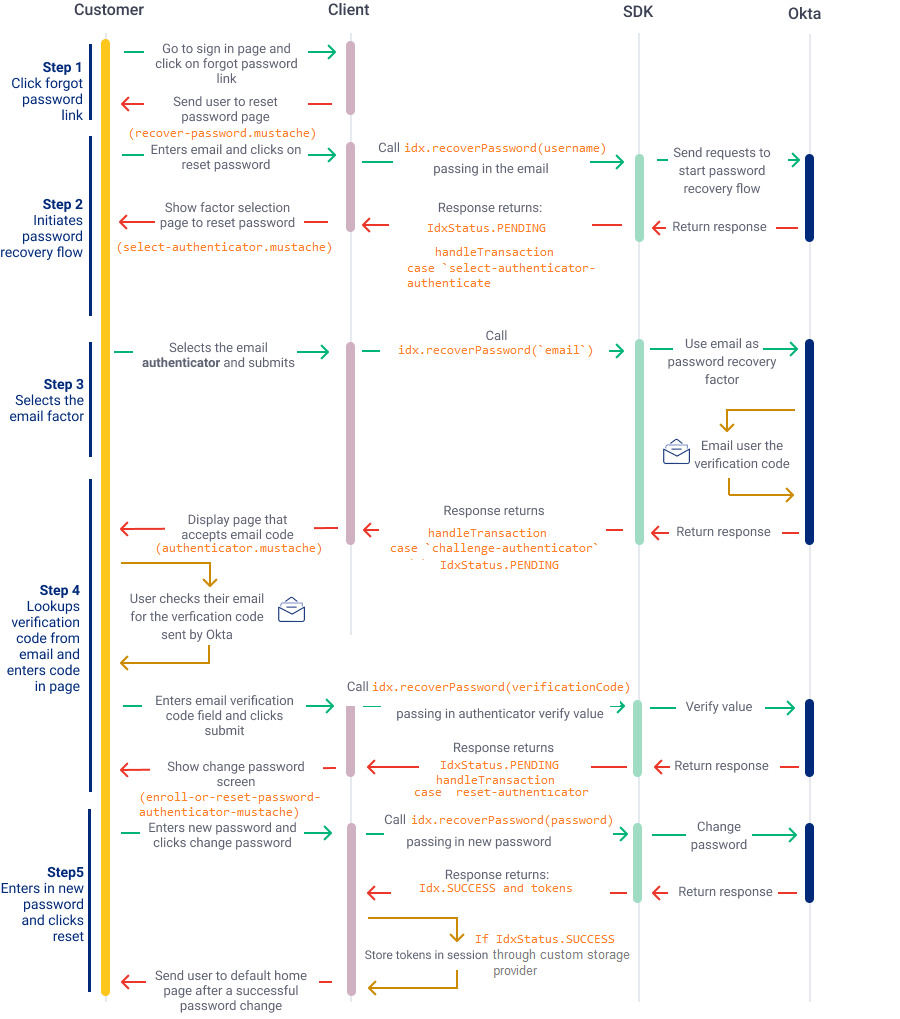
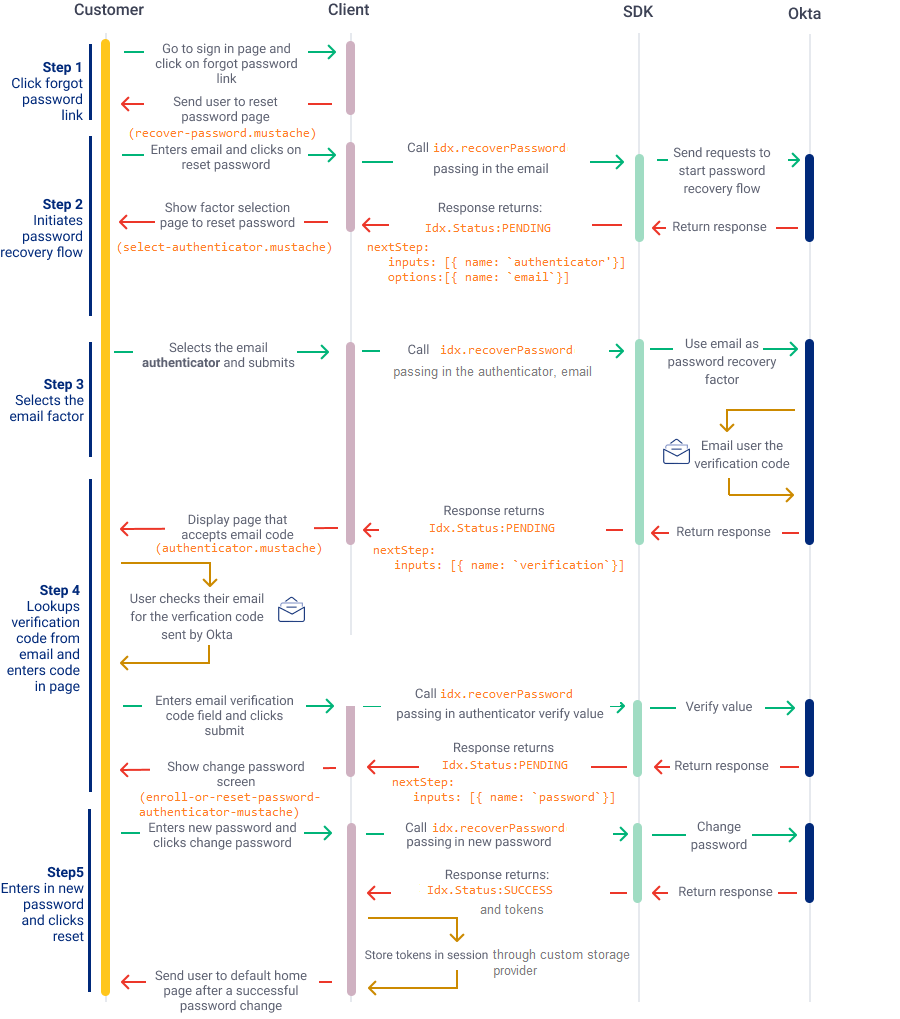
Updates to image and steps as per recent overall feedback

diff --git a/packages/@okta/vuepress-site/docs/guides/oie-embedded-sdk-use-cases/oie-embedded-sdk-use-case-pwd-recovery-mfa/nodejs/integrationsteps.md b/packages/@okta/vuepress-site/docs/guides/oie-embedded-sdk-use-cases/oie-embedded-sdk-use-case-pwd-recovery-mfa/nodejs/integrationsteps.md
@@ -22,9 +22,9 @@ Create a "Reset your password" page that initiates the reset password flow. The 
 
 </div>
 
-### Step 3: Make call to idx.recoverPassword(username)
+After the user clicks **Submit** to start the reset flow, the next step is to call `idx.recoverPassword` and pass in the email address captured from the **Username** field. This starts the password recovery flow and returns a status of `Idx.Status:PENDING` and a `nextStep` field with inputs for an authenticator.
 
-After the user clicks **Submit** to start the reset flow, the next step is to call the `idx.recoverPassword` method and pass in the email address captured from the **Username** field, as seen in the SDK sample application's `recover-password.js` file. The method returns a call to the `handleTransaction` function in the `handleTransactions.js` file, which verifies the case and authenticator and moves the process to the next step.
+The cal is shown in the SDK sample application's `recover-password.js` file.
 
 ```JavaScript
 router.post('/recover-password', async (req, res, next) => {
@@ -35,7 +35,7 @@ router.post('/recover-password', async (req, res, next) => {
 });
 ```
 
-The `handleTransaction` response directs the user to a select authenticators page (`/select-authenticator` in this example) that the user needs to use to select an authentication type. In this case, the email factor is configured.
+The `handleTransaction` response, in the `handleTransaction.js` page, directs the user to a select authenticators page (`/select-authenticator` in this example) that the user needs to use to select an authentication type. In this case, the email factor is configured.
 
 ```JavaScript
 // authenticator authenticate
@@ -48,12 +48,9 @@ The `handleTransaction` response directs the user to a select authenticators pag
 
 >**NOTE:** Review the full use of the `idx.recoverPassword` method in the [Okta Auth JS SDK](https://github.com/okta/okta-auth-js/blob/master/docs/idx.md#idxrecoverpassword). Other uses are documented in the following steps.
 
-### Step 4: Create reset password authenticators page
+### Step 3: Create reset password authenticators page
 
-The next step is to create a page that shows the authenticator that is returned from
-the `handleTransaction` method. For this use case, it shows the email authenticator.
-The page should include the name of the authenticator and the ability to select the
-authenticator to initiate the authentication verification process.
+The next step is to create a page that shows the authenticator that is returned from the `handleTransaction` method. For this use case, it shows the email authenticator. The page should include the name of the authenticator and the ability to select the authenticator to initiate the authentication verification process.
 
 <div class="common-image-format">
 
@@ -62,9 +59,7 @@ authenticator to initiate the authentication verification process.
 
 </div>
 
-### Step 5: Make call to idx.recoverPassword(email)
-
-After the user selects the email authenticator, the next step is to call the `idx.recoverPassword` method with the authenticator type `('email')`, as shown in the `authenticator.js` file of the SDK sample application. The method returns a status of `Idx.Status:PENDING`. This status indicates that the Okta platform has emailed the verification code to the user's email address and it's now awaiting verification. The process moves to the next step.
+After the user selects the email authenticator, the next step is to call `idx.recoverPassword` with the authenticator type, as shown in the `authenticator.js` file of the SDK sample application. The method returns a status of `Idx.Status:PENDING`. This status indicates that the Okta platform has emailed the verification code to the user's email address and it's now awaiting verification. The `nextStep` field, also returned, requires an input parameter of an email verification code.
 
 ```JavaScript
 router.post('/select-authenticator', async (req, res, next) => {
@@ -76,9 +71,9 @@ router.post('/select-authenticator', async (req, res, next) => {
 });
 ```
 
-### Step 6: Create code verification page
+### Step 4: Create code verification page
 
-After the call to `idx.recoverPassword(email)` has responded with a status of `Idx.Status:PENDING`, the user should be redirected to a code verification page.
+After the call to `idx.recoverPassword` has responded with a status of `Idx.Status:PENDING`, the user should be redirected to a code verification page.
 
 <div class="common-image-format">
 
@@ -89,9 +84,7 @@ After the call to `idx.recoverPassword(email)` has responded with a status of `I
 
 The page should display a field to enter a code and a button or link to send the code to Okta for the email verification.
 
-### Step 7: Make call to idx.recoverPassword(verificationCode)
-
-After the user checks their email for the code and enters the value into the field, they should click **Verify** to initiate the verification. Call `idx.recoverPassword` with the verification code passed in `(verificationCode)`, as shown in the `authenticator.js` page of the SDK sample application.
+After the user checks their email for the code and enters the value into the field, they should click **Verify** to initiate the verification. Call `idx.recoverPassword` with the verification code passed in, as shown in the `authenticator.js` page of the SDK sample application.
 
 ```JavaScript
 router.post('/challenge-authenticator/email', async (req, res, next) => {
@@ -103,9 +96,9 @@ router.post('/challenge-authenticator/email', async (req, res, next) => {
 });
 ```
 
-If the `idx.recoverPassword` call is successful, it should return a status of `Idx.Status:PENDING`. This status indicates that the user can now change their password. At this point, the user should be redirected to the change password page.
+If the `idx.recoverPassword` call is successful, it should return a status of `Idx.Status:PENDING` and the `nextStep` field indicates an input of a password value parameter. This status indicates that the user can now change their password. At this point, the user should be redirected to the change password page.
 
-### Step 8: Create change password page
+### Step 5: Create change password page
 
 Create a change password page that allows the user to enter the new password and initiate the change password.
 
@@ -116,9 +109,7 @@ Create a change password page that allows the user to enter the new password and
 
 </div>
 
-### Step 9: Make call to idx.recoverPassword(password)
-
-The final step is to make a call to `idx.recoverPassword(password)`, passing in the value of the password, input by the user, as shown in the `recover-password.js` file of the SDK sample application. This call will reset the user's password.
+The final step is to make a call to `idx.recoverPassword`, passing in the value of the password, input by the user, as shown in the `recover-password.js` file of the SDK sample application. This call will reset the user's password.
 
 ```JavaScript
 router.post('/reset-password', async (req, res, next) => {
@@ -135,4 +126,4 @@ router.post('/reset-password', async (req, res, next) => {
 });
 ```
 
-If the response to the `idx.recoverPassword` call returns `Idx.Status:SUCCESS`, the change password flow has completed successfully and you can redirect the user to the default page.
+If the response to the `idx.recoverPassword` call returns `Idx.Status:SUCCESS` and tokens, the change password flow has completed successfully and you can redirect the user to the default home page.
